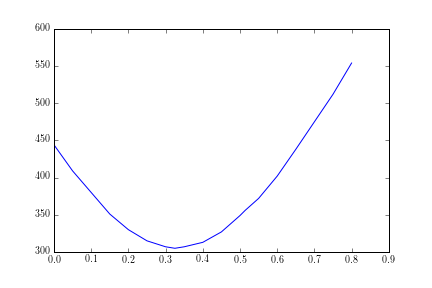
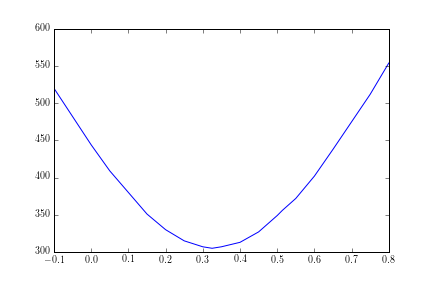
few more points on the graph

diff --git a/Optical_Pumping/data_processing.py b/Optical_Pumping/data_processing.py
@@ -16,11 +16,11 @@ show()
 
 #Iv = [.514, .5, .45, .55, .6, .65, .7, .75, .8, .4, .35, .3, .25, .2, .15, .1, .05, 0, .325]
 
-Iv = [0, .05, .1, .15, .2, .25, .3, .325, .35, .4, .45, .5, .514, .55, .6, .65, .7, .75, .8]
+Iv = [-.1, -.05, 0, .05, .1, .15, .2, .25, .3, .325, .35, .4, .45, .5, .514, .55, .6, .65, .7, .75, .8]
 
 #f = [356, 349, 327, 372, 402, 438, 475, 512, 554, 313, 307, 307, 315, 330, 351, 380, 409, 444, 305]
 
-f = [444, 409, 380, 351, 330, 315, 307, 305, 307, 313, 327, 349, 356, 372, 402, 438, 475, 512, 554]
+f = [520, 482, 444, 409, 380, 351, 330, 315, 307, 305, 307, 313, 327, 349, 356, 372, 402, 438, 475, 512, 554]
 
 plot(sort(Iv), f)
 savefig("plots/Earth_B_Field.png")
